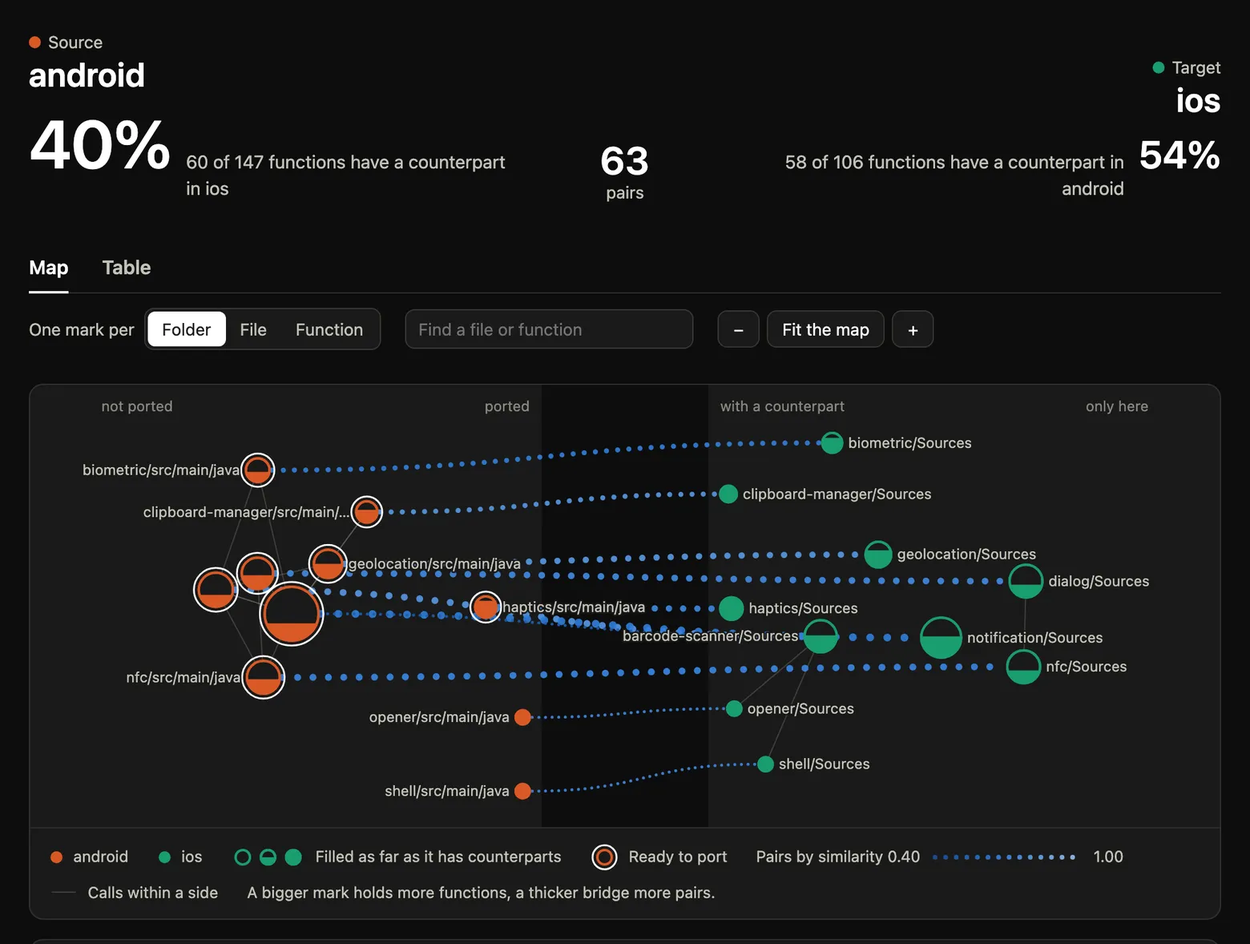
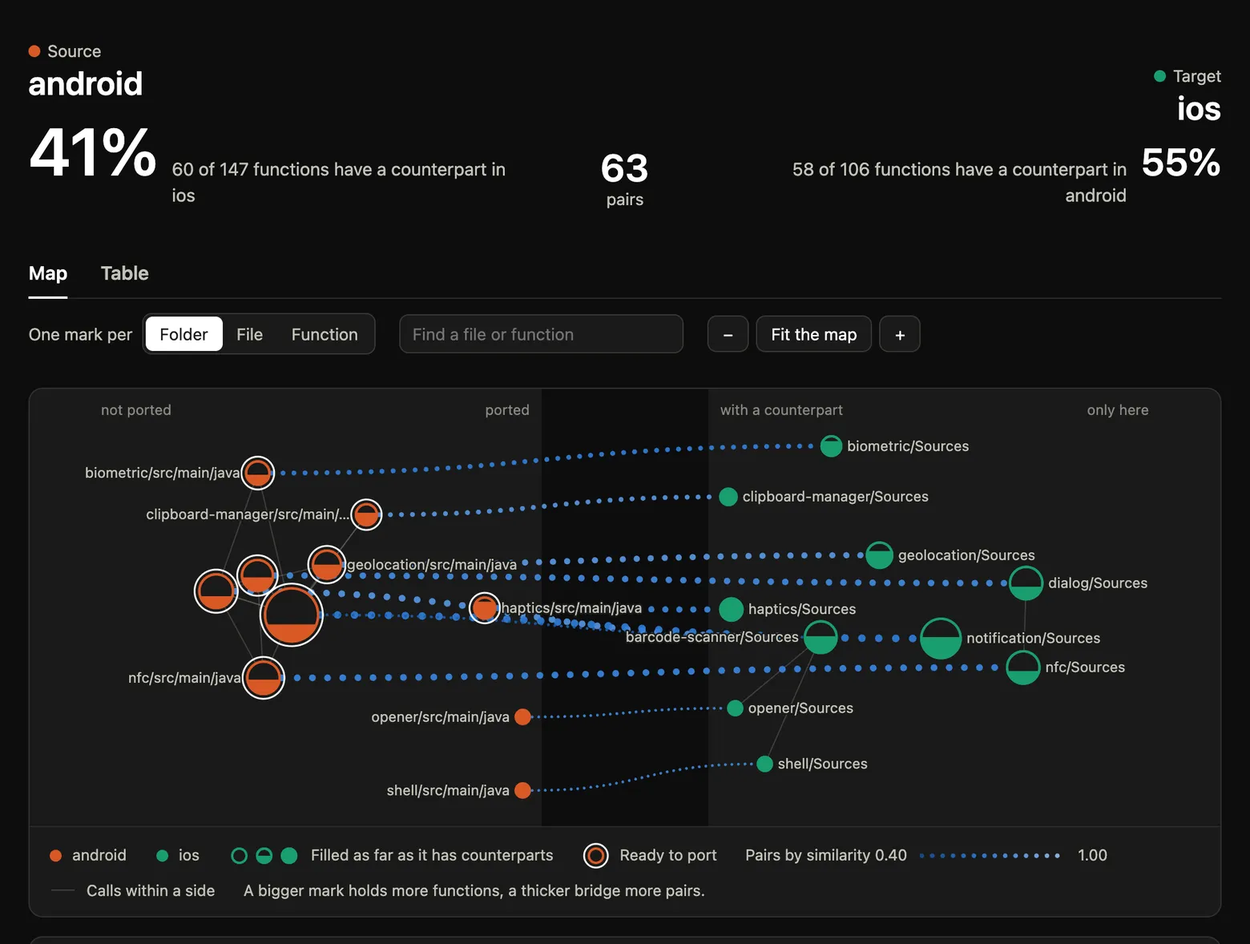
docs(compare): tests that count, declarations without a body
kucherenko/jscpd#1130 changed three things the compare guide described
the old way. A test now counts like a function, by --min-tokens and
--min-lines, so the template test of a new Android module adds no
block of zeros, and a report with only tests shows that block alone.
Declarations without a body, such as TypeScript overloads and abstract
methods, take no part in --compare and --semantic, and the semantic
guide lists them. The HTML map rounds shares like the console does.

The two hosted reports are regenerated with master. The Tauri map now
says 41% and 55%, as the console does, where the old page cut them to
40% and 54%, so both of its screenshots are taken again with the same
framing. Every other number on the page still matches a fresh run.

diff --git a/public/examples/compare-tauri.html b/public/examples/compare-tauri.html
@@ -476,7 +476,7 @@ details.table-view summary { cursor: pointer; color: var(--ink-2); font-size: 14
 </div>
 </div>
 
-<script type="application/json" id="data">{"version":"5.4.0","model":"CodeRankEmbed","sides":["android","ios"],"sideIsFile":[false,false],"files":[[0,"barcode-scanner/src/androidTest/java/ExampleInstrumentedTest.kt"],[0,"barcode-scanner/src/main/java/BarcodeScannerPlugin.kt"],[0,"barcode-scanner/src/main/java/GraphicOverlay.kt"],[0,"barcode-scanner/src/test/java/ExampleUnitTest.kt"],[0,"biometric/src/androidTest/java/ExampleInstrumentedTest.kt"],[0,"biometric/src/main/java/BiometricActivity.kt"],[0,"biometric/src/main/java/BiometricPlugin.kt"],[0,"biometric/src/test/java/ExampleUnitTest.kt"],[0,"clipboard-manager/src/androidTest/java/ExampleInstrumentedTest.kt"],[0,"clipboard-manager/src/main/java/ClipboardPlugin.kt"],[0,"clipboard-manager/src/test/java/ExampleUnitTest.kt"],[0,"dialog/src/androidTest/java/ExampleInstrumentedTest.kt"],[0,"dialog/src/main/java/DialogPlugin.kt"],[0,"dialog/src/main/java/FilePickerUtils.kt"],[0,"dialog/src/test/java/ExampleUnitTest.kt"],[0,"geolocation/src/androidTest/java/ExampleInstrumentedTest.kt"],[0,"geolocation/src/main/java/Geolocation.kt"],[0,"geolocation/src/main/java/GeolocationPlugin.kt"],[0,"geolocation/src/test/java/ExampleUnitTest.kt"],[0,"haptics/src/androidTest/java/ExampleInstrumentedTest.kt"],[0,"haptics/src/main/java/HapticsPlugin.kt"],[0,"haptics/src/test/java/ExampleUnitTest.kt"],[0,"nfc/src/androidTest/java/ExampleInstrumentedTest.kt"],[0,"nfc/src/main/java/NfcPlugin.kt"],[0,"nfc/src/test/java/ExampleUnitTest.kt"],[0,"notification/src/androidTest/java/ExampleInstrumentedTest.kt"],[0,"notification/src/main/java/AssetUtils.kt"],[0,"notification/src/main/java/ChannelManager.kt"],[0,"notification/src/main/java/Notification.kt"],[0,"notification/src/main/java/NotificationAttachment.kt"],[0,"notification/src/main/java/NotificationPlugin.kt"],[0,"notification/src/main/java/NotificationSchedule.kt"],[0,"notification/src/main/java/NotificationStorage.kt"],[0,"notification/src/main/java/TauriNotificationManager.kt"],[0,"notification/src/test/java/ExampleUnitTest.kt"],[0,"opener/src/main/java/OpenerPlugin.kt"],[0,"shell/src/main/java/ShellPlugin.kt"],[1,"barcode-scanner/Sources/BarcodeScannerPlugin.swift"],[1,"barcode-scanner/Sources/CameraView.swift"],[1,"barcode-scanner/Sources/Utils.swift"],[1,"barcode-scanner/Tests/PluginTests/PluginTests.swift"],[1,"biometric/Sources/BiometricPlugin.swift"],[1,"biometric/Tests/PluginTests/PluginTests.swift"],[1,"clipboard-manager/Sources/ClipboardPlugin.swift"],[1,"clipboard-manager/Tests/PluginTests/PluginTests.swift"],[1,"dialog/Sources/DialogPlugin.swift"],[1,"dialog/Sources/FilePickerController.swift"],[1,"dialog/Tests/PluginTests/PluginTests.swift"],[1,"geolocation/Sources/GeolocationPlugin.swift"],[1,"geolocation/Tests/PluginTests/PluginTests.swift"],[1,"haptics/Sources/HapticsPlugin.swift"],[1,"haptics/Tests/PluginTests/PluginTests.swift"],[1,"nfc/Sources/NfcPlugin.swift"],[1,"nfc/Tests/PluginTests/PluginTests.swift"],[1,"notification/Sources/Notification.swift"],[1,"notification/Sources/NotificationCategory.swift"],[1,"notification/Sources/NotificationHandler.swift"],[1,"notification/Sources/NotificationManager.swift"],[1,"notification/Sources/NotificationPlugin.swift"],[1,"notification/Tests/PluginTests/PluginTests.swift"],[1,"opener/Sources/OpenerPlugin.swift"],[1,"shell/Sources/ShellPlugin.swift"]],"functions":[[0,"useAppContext",23,27,2],[1,"load",92,95,0],[1,"supportedFormats",97,113,5],[1,"hasCamera",115,118,0],[1,"setupCamera",120,168,1],[1,"bindPreview",170,197,5],[1,"dismantleCamera",199,212,1],[1,"getFormats",214,223,1],[1,"prepare",225,228,0],[1,"destroy",230,241,1],[1,"configureCamera",244,268,1],[1,"mapFormats",270,276,5],[1,"analyze",278,318,1],[1,"vibrate",321,331,5],[1,"cancel",334,338,0],[1,"scan",341,354,1],[1,"cameraPermissionCallback",358,379,1],[1,"requestPermissions",383,401,1],[1,"openAppSettings",404,411,1],[1,"openSettingsResult",414,416,0],[2,"draw",33,33,0],[2,"drawRect",34,43,5],[2,"drawText",45,47,0],[2,"scale",50,52,0],[2,"isImageFlipped",57,59,0],[2,"translateX",61,67,1],[2,"translateY",69,71,0],[2,"getTransformationMatrix",73,75,0],[2,"postInvalidate",77,79,0],[2,"updatePaintColorByZValue",81,100,1],[2,"clear",111,114,0],[2,"add",116,118,0],[2,"remove",120,123,0],[2,"setImageSourceInfo",125,135,1],[2,"getImageWidth",137,139,0],[2,"getImageHeight",141,143,0],[2,"updateTransformationIfNeeded",145,169,5],[2,"onDraw",171,179,1],[3,"addition_isCorrect",18,20,2],[4,"useAppContext",23,27,2],[5,"onCreate",22,105,1],[5,"onAuthenticationError",84,94,1],[5,"onAuthenticationSucceeded",96,101,0],[5,"finishActivity",108,124,1],[6,"load",90,107,1],[6,"status",113,157,1],[6,"authenticate",163,190,1],[6,"authenticateResult",193,249,5],[7,"addition_isCorrect",18,20,2],[8,"useAppContext",23,27,2],[9,"serialize",50,68,5],[9,"deserialize",72,82,5],[9,"writeText",92,108,1],[9,"readText",111,129,1],[9,"clear",132,141,1],[10,"addition_isCorrect",18,20,2],[11,"useAppContext",23,27,2],[12,"showFilePicker",57,88,1],[12,"filePickerResult",91,106,1],[12,"createPickFilesResult",108,126,1],[12,"parseFiltersOption",128,142,1],[12,"showMessageDialog",145,196,1],[12,"saveFileDialog",199,220,1],[12,"saveFileDialogResult",223,245,1],[13,"getPathFromUri",29,63,1],[13,"getNameFromUri",65,80,5],[13,"getDataFromUri",82,93,1],[13,"getMimeTypeFromUri",95,97,0],[13,"getModifiedAtFromUri",99,116,1],[13,"getSizeFromUri",118,130,5],[13,"getDurationFromUri",132,146,1],[13,"getHeightAndWidthFromUri",148,178,1],[13,"isImageUri",180,183,0],[13,"isVideoUri",185,188,0],[13,"getBytesFromInputStream",191,200,5],[13,"getDataColumn",204,218,5],[13,"isExternalStorageDocument",220,222,0],[13,"isDownloadsDocument",224,226,0],[13,"isMediaDocument",228,230,0],[14,"addition_isCorrect",18,20,2],[15,"useAppContext",23,27,2],[16,"isLocationServicesEnabled",29,32,0],[16,"sendLocation",35,69,1],[16,"requestLocationUpdates",72,117,1],[16,"onLocationResult",100,107,5],[16,"clearLocationUpdates",119,124,0],[16,"getLastLocation",127,143,5],[17,"load",66,69,0],[17,"onPause",71,75,0],[17,"onResume",77,83,5],[17,"checkPermissions",86,92,1],[17,"requestPermissions",95,101,1],[17,"getCurrentPosition",104,115,1],[17,"positionPermissionCallback",118,123,1],[17,"watchPosition",126,129,0],[17,"startWatch",131,139,1],[17,"clearWatch",142,152,1],[17,"convertLocation",154,171,1],[18,"addition_isCorrect",18,20,2],[19,"useAppContext",23,27,2],[20,"into",50,56,0],[20,"into",77,85,1],[20,"vibrate",103,111,1],[20,"impactFeedback",114,118,1],[20,"notificationFeedback",121,125,1],[20,"selectionFeedback",129,132,0],[20,"vibratePattern",136,142,5],[21,"addition_isCorrect",18,20,2],[22,"useAppContext",23,27,2],[23,"className",64,97,5],[23,"addDataFilters",100,115,5],[23,"filters",132,145,1],[23,"techLists",147,166,1],[23,"deserialize",170,182,5],[23,"load",221,225,1],[23,"onNewIntent",227,267,1],[23,"onPause",269,273,0],[23,"onResume",275,281,1],[23,"isAvailable",283,298,5],[23,"isAvailable",301,305,1],[23,"scan",308,322,1],[23,"write",325,369,1],[23,"readTag",371,406,1],[23,"readTagInner",408,424,5],[23,"writeTag",426,479,1],[23,"enableNFCInForeground",482,495,5],[23,"disableNFCInForeground",497,501,0],[23,"fromU8Array",504,510,1],[23,"recordToJson",512,519,1],[24,"addition_isCorrect",18,20,2],[25,"useAppContext",23,27,2],[26,"getResourceID",15,17,0],[26,"getResourceBaseName",19,27,5],[27,"createChannel",60,68,1],[27,"createChannel",70,108,1],[27,"deleteChannel",110,118,1],[27,"listChannels",120,150,1],[28,"getSound",42,57,1],[28,"getIconColor",59,62,0],[28,"getSmallIcon",64,73,1],[28,"getLargeIcon",75,81,1],[28,"buildNotificationPendingList",84,91,1],[29,"getAttachments",18,50,1],[30,"triggerNotification",90,92,0],[30,"load",95,118,1],[30,"onNewIntent",120,123,0],[30,"onIntent",125,133,1],[30,"show",136,141,1],[30,"batch",144,151,1],[30,"cancel",154,160,1],[30,"removeActive",163,179,1],[30,"getPending",182,186,1],[30,"registerActionTypes",189,193,1],[30,"getActive",197,226,1],[30,"createChannel",229,231,0],[30,"deleteChannel",234,236,0],[30,"listChannels",239,241,0],[30,"checkPermissions",244,252,1],[30,"requestPermissions",255,263,1],[30,"permissionState",266,270,1],[30,"permissionsCallback",273,277,1],[30,"getPermissionState",279,285,0],[31,"getIntervalTime",49,62,1],[31,"isRemovable",87,92,0],[31,"allowWhileIdle",94,101,5],[31,"serialize",108,141,1],[31,"deserialize",145,160,5],[31,"buildCalendar",181,186,5],[31,"nextTrigger",194,198,1],[31,"postponeTriggerIfNeeded",203,224,5],[31,"buildNextTriggerTime",226,257,1],[31,"toString",259,276,5],[31,"equals",278,289,5],[31,"hashCode",291,300,5],[31,"toMatchString",307,324,1],[31,"fromMatchString",335,359,1],[31,"getValueFromCronElement",361,367,5],[32,"appendNotifications",19,29,1],[32,"getSavedNotificationIds",31,37,1],[32,"getSavedNotifications",39,54,1],[32,"getSavedNotification",56,69,1],[32,"deleteNotification",71,75,1],[32,"getStorage",77,79,0],[32,"writeActionGroup",81,94,1],[32,"getActionGroup",96,112,1],[33,"handleNotificationActionPerformed",53,87,1],[33,"createNotificationChannel",92,116,1],[33,"trigger",118,124,1],[33,"schedule",126,129,0],[33,"schedule",131,141,1],[33,"buildNotification",149,224,1],[33,"createActionIntents",227,288,1],[33,"buildIntent",290,306,1],[33,"triggerScheduledNotification",314,362,1],[33,"setExactIfPossible",365,384,1],[33,"cancel",386,392,1],[33,"cancelTimerForNotification",394,405,1],[33,"dismissVisibleNotification",407,412,0],[33,"areNotificationsEnabled",414,417,0],[33,"getDefaultSoundUrl",419,424,1],[33,"getDefaultSound",426,435,1],[33,"getDefaultSmallIcon",437,449,1],[33,"onReceive",453,466,1],[33,"onReceive",473,500,1],[33,"getParcelableExtraLegacy",503,505,0],[33,"rescheduleNotificationIfNeeded",508,533,1],[33,"onReceive",543,580,1],[34,"addition_isCorrect",18,20,2],[35,"open",26,43,1],[36,"open",19,29,1],[37,"load",95,98,0],[37,"loadCamera",100,105,5],[37,"metadataOutput",107,129,1],[37,"setupCamera",131,188,1],[37,"dismantleCamera",190,203,1],[37,"destroy",205,214,1],[37,"getPermissionState",216,229,1],[37,"checkPermissions",231,234,0],[37,"requestPermissions",236,245,1],[37,"openAppSettings",247,261,1],[37,"runScanner",263,294,1],[37,"scan",296,337,1],[37,"cancel",339,345,1],[37,"initPlugin",349,351,0],[38,"interfaceOrientationToVideoOrientation",11,26,5],[38,"layoutSubviews",28,42,1],[38,"addPreviewLayer",44,49,5],[38,"removePreviewLayer",51,56,0],[39,"createCaptureDeviceInput",7,33,5],[39,"discoverCaptureDevices",35,52,5],[39,"formatStringFromMetadata",54,90,5],[40,"testExample",10,12,2],[41,"init",17,22,5],[41,"load",50,82,1],[41,"status",84,98,1],[41,"authenticate",100,147,1],[41,"initPlugin",151,153,0],[42,"testExample",9,11,2],[43,"writeText",19,31,1],[43,"readText",33,40,1],[43,"clear",42,46,0],[43,"initPlugin",50,52,0],[44,"testClipboard",9,11,2],[45,"init",62,66,0],[45,"showFilePicker",68,136,1],[45,"saveFileDialog",138,176,1],[45,"presentViewController",178,180,0],[45,"parseFiltersOption",183,197,1],[45,"showFilePickerLegacy",200,240,1],[45,"parseFiltersOptionLegacy",243,258,5],[45,"onFilePickerEvent",260,262,0],[45,"showMessageDialog",264,306,1],[45,"initPlugin",311,313,0],[46,"init",14,16,0],[46,"dismissViewController",18,20,0],[46,"getModifiedAtFromUrl",22,34,1],[46,"getMimeTypeFromUrl",36,45,5],[46,"getSizeFromUrl",47,50,0],[46,"getVideoDuration",52,57,1],[46,"getImageDimensions",59,66,1],[46,"getVideoDimensions",68,74,1],[46,"getHeightAndWidthFromImageProperties",76,86,5],[46,"getFileUrlByPath",88,97,1],[46,"saveTemporaryFile",113,127,1],[46,"deleteFile",129,133,5],[46,"documentPicker",137,143,1],[46,"documentPickerWasCancelled",145,147,0],[46,"imagePickerControllerDidCancel",151,154,0],[46,"popoverPresentationControllerDidDismissPopover",156,158,0],[46,"presentationControllerDidDismiss",160,162,0],[46,"imagePickerController",164,177,1],[46,"picker",182,252,1],[47,"testExample",9,11,2],[48,"init",31,34,0],[48,"getCurrentPosition",40,59,1],[48,"watchPosition",61,83,1],[48,"clearWatch",85,96,1],[48,"checkPermissions",98,121,1],[48,"requestPermissions",123,138,1],[48,"locationManager",144,162,5],[48,"locationManager",164,197,5],[48,"locationManager",199,217,5],[48,"stopUpdating",224,227,0],[48,"convertLocation",229,244,1],[48,"initPlugin",248,250,0],[49,"testExample",9,11,2],[50,"into",19,32,1],[50,"into",42,51,1],[50,"vibrate",64,100,1],[50,"impactFeedback",102,109,1],[50,"notificationFeedback",111,118,1],[50,"selectionFeedback",121,127,1],[50,"initPlugin",131,133,0],[51,"testExample",9,11,2],[52,"init",54,68,5],[52,"init",75,78,0],[52,"load",85,105,1],[52,"tagReaderSessionDidBecomeActive",107,111,0],[52,"tagReaderSession",113,147,1],[52,"tagReaderSession",149,153,5],[52,"readerSession",155,159,5],[52,"readerSession",161,193,1],[52,"readerSession",195,206,5],[52,"tagMetadata",208,235,1],[52,"closeSession",237,240,0],[52,"closeSession",242,245,0],[52,"processTag",247,273,1],[52,"writeNDEFTag",275,308,1],[52,"readNDEFTag",310,351,1],[52,"resolveInvoke",353,365,5],[52,"ndefMessageRecords",367,380,1],[52,"byteArrayFromData",382,388,5],[52,"dataFromByteArray",390,396,1],[52,"isAvailable",398,402,0],[52,"write",404,453,1],[52,"scan",455,473,1],[52,"startScanSession",475,517,5],[52,"initPlugin",521,523,0],[53,"testExample",9,11,2],[54,"makeNotificationContent",31,74,1],[54,"scheduleToDictionary",76,96,1],[54,"scheduleIntervalToDictionary",98,124,5],[54,"makeAttachments",126,147,1],[54,"makeAttachmentUrl",149,151,0],[54,"makeAttachmentOptions",153,172,5],[54,"handleScheduledNotification",174,219,1],[54,"getDateComponents",224,251,5],[54,"getRepeatDateInterval",257,286,1],[55,"makeCategories",8,36,1],[55,"makeActions",38,66,1],[55,"makeActionOptions",68,79,5],[55,"makeCategoryOptions",81,97,5],[56,"saveNotification",14,16,0],[56,"requestPermissions",18,23,5],[56,"checkPermissions",25,30,5],[56,"willPresent",32,47,1],[56,"didReceive",49,76,1],[56,"toActiveNotification",78,88,5],[56,"toPendingNotification",90,96,5],[57,"init",16,20,0],[57,"userNotificationCenter",22,34,1],[57,"userNotificationCenter",36,46,5],[58,"showNotification",87,120,5],[58,"init",161,165,0],[58,"show",167,173,1],[58,"batch",175,186,1],[58,"requestPermissions",188,196,1],[58,"checkPermissions",198,215,1],[58,"cancel",217,228,1],[58,"getPending",230,239,1],[58,"registerActionTypes",241,245,1],[58,"removeActive",247,260,1],[58,"getActive",262,271,1],[58,"createChannel",273,275,0],[58,"deleteChannel",277,279,0],[58,"listChannels",281,283,0],[58,"initPlugin",288,290,0],[59,"testExample",9,11,2],[60,"open",18,40,1],[60,"initPlugin",44,46,0],[61,"open",14,28,1],[61,"initPlugin",32,34,0]],"pairs":[[4,213,0.815,2,0],[6,214,0.805,2,0],[9,215,0.925,2,0],[10,220,0.543,0,0],[14,222,0.855,2,1],[15,221,0.743,2,0],[17,218,0.759,2,0],[18,219,0.769,2,0],[44,233,0.653,1,0],[45,234,0.747,2,0],[46,235,0.596,1,0],[52,238,0.792,2,0],[53,239,0.86,2,0],[54,240,0.688,1,1],[57,244,0.818,2,0],[60,247,0.883,2,0],[61,251,0.809,2,0],[62,245,0.749,2,0],[68,255,0.644,1,0],[70,258,0.615,1,0],[71,260,0.54,0,0],[90,277,0.782,2,0],[91,278,0.841,2,0],[92,274,0.752,2,0],[95,275,0.615,1,0],[96,276,0.849,2,0],[97,283,0.867,2,0],[100,287,0.586,1,1],[101,286,0.59,1,0],[102,288,0.782,2,0],[103,289,0.778,2,0],[104,290,0.747,2,0],[105,291,0.77,2,1],[114,296,0.653,1,0],[119,313,0.769,2,1],[120,315,0.784,2,0],[121,314,0.847,2,0],[122,301,0.619,1,0],[124,307,0.798,2,0],[127,312,0.564,1,0],[128,310,0.547,0,0],[133,353,0.704,1,1],[135,354,0.715,2,1],[136,355,0.617,1,1],[142,322,0.579,1,0],[147,344,0.769,2,0],[148,345,0.81,2,0],[149,348,0.766,2,0],[150,351,0.762,2,0],[151,349,0.768,2,0],[152,350,0.801,2,0],[153,352,0.711,1,0],[157,347,0.605,1,1],[158,346,0.739,2,0],[159,216,0.485,0,0],[162,327,0.413,0,0],[165,320,0.463,0,0],[190,319,0.454,0,0],[191,329,0.517,0,0],[193,325,0.716,2,0],[203,336,0.508,0,0],[208,358,0.717,2,0],[209,360,0.714,2,0]],"calls":[[4,5],[7,31],[8,4],[8,6],[9,6],[10,11],[12,9],[12,171],[14,9],[15,3],[15,7],[15,8],[15,10],[15,161],[16,161],[17,161],[25,23],[26,23],[29,23],[30,28],[32,28],[33,28],[37,20],[37,36],[40,41],[40,42],[40,43],[40,46],[41,43],[42,43],[43,171],[44,31],[53,171],[57,60],[58,59],[59,31],[59,171],[60,31],[61,147],[62,60],[63,171],[64,75],[64,76],[64,77],[64,78],[64,172],[66,74],[70,73],[71,72],[71,73],[72,67],[73,67],[74,121],[82,81],[83,81],[83,84],[83,85],[88,85],[89,95],[90,81],[91,81],[92,82],[92,86],[92,97],[93,161],[94,95],[95,83],[95,97],[96,32],[96,85],[103,100],[103,101],[103,106],[104,100],[104,101],[104,106],[105,106],[106,102],[111,110],[112,31],[112,109],[115,122],[115,124],[115,126],[115,171],[116,126],[117,125],[120,111],[120,112],[120,118],[120,119],[120,125],[121,31],[121,111],[121,112],[121,118],[121,119],[121,124],[121,125],[121,126],[121,171],[122,123],[123,127],[123,128],[128,127],[134,186],[136,31],[136,171],[137,131],[137,132],[139,131],[140,131],[141,31],[142,31],[144,146],[144,186],[145,146],[146,185],[146,187],[147,188],[147,189],[148,177],[148,188],[148,189],[149,178],[150,149],[151,141],[151,179],[152,183],[153,31],[153,171],[157,161],[158,159],[158,161],[159,161],[160,161],[161,198],[168,167],[168,169],[168,170],[170,167],[174,171],[175,176],[177,171],[177,182],[178,182],[179,31],[179,182],[180,182],[181,32],[181,182],[183,30],[183,54],[183,182],[184,182],[185,171],[185,181],[185,197],[186,199],[187,190],[187,196],[187,197],[188,187],[189,31],[189,187],[190,137],[190,138],[190,139],[190,140],[190,143],[190,191],[190,193],[190,200],[190,201],[191,163],[191,173],[191,184],[191,192],[192,163],[193,162],[193,168],[193,174],[193,194],[194,164],[195,171],[195,181],[195,196],[195,197],[196,195],[197,195],[199,200],[200,131],[200,132],[201,131],[201,132],[202,171],[202,181],[203,143],[203,171],[203,180],[203,181],[203,204],[203,205],[205,168],[205,175],[206,31],[206,177],[206,178],[206,180],[206,188],[206,189],[210,211],[212,215],[212,230],[213,226],[213,228],[213,229],[214,227],[215,214],[217,216],[218,216],[219,358],[219,360],[220,216],[221,211],[221,213],[221,214],[221,216],[221,220],[221,229],[222,215],[225,224],[244,246],[244,247],[244,248],[245,246],[245,314],[248,246],[248,249],[259,261],[262,253],[263,264],[265,250],[266,250],[267,250],[267,254],[268,250],[269,250],[270,250],[270,254],[270,263],[271,250],[271,254],[271,263],[276,282],[278,277],[280,283],[281,277],[289,286],[289,287],[290,286],[290,287],[298,303],[298,304],[298,305],[298,306],[300,310],[301,304],[301,305],[301,306],[301,311],[303,311],[306,304],[306,305],[306,307],[306,308],[306,314],[307,304],[307,305],[308,304],[308,305],[308,309],[309,310],[310,311],[314,307],[314,312],[314,316],[315,316],[319,320],[319,322],[320,321],[322,323],[322,324],[325,326],[325,327],[328,329],[328,331],[329,330],[335,337],[336,337],[340,335],[341,336],[342,319],[342,325],[344,332],[344,342],[345,332],[345,342],[349,338],[350,328],[352,337]]}</script>
+<script type="application/json" id="data">{"version":"5.4.0","model":"CodeRankEmbed","sides":["android","ios"],"sideIsFile":[false,false],"files":[[0,"barcode-scanner/src/androidTest/java/ExampleInstrumentedTest.kt"],[0,"barcode-scanner/src/main/java/BarcodeScannerPlugin.kt"],[0,"barcode-scanner/src/main/java/GraphicOverlay.kt"],[0,"barcode-scanner/src/test/java/ExampleUnitTest.kt"],[0,"biometric/src/androidTest/java/ExampleInstrumentedTest.kt"],[0,"biometric/src/main/java/BiometricActivity.kt"],[0,"biometric/src/main/java/BiometricPlugin.kt"],[0,"biometric/src/test/java/ExampleUnitTest.kt"],[0,"clipboard-manager/src/androidTest/java/ExampleInstrumentedTest.kt"],[0,"clipboard-manager/src/main/java/ClipboardPlugin.kt"],[0,"clipboard-manager/src/test/java/ExampleUnitTest.kt"],[0,"dialog/src/androidTest/java/ExampleInstrumentedTest.kt"],[0,"dialog/src/main/java/DialogPlugin.kt"],[0,"dialog/src/main/java/FilePickerUtils.kt"],[0,"dialog/src/test/java/ExampleUnitTest.kt"],[0,"geolocation/src/androidTest/java/ExampleInstrumentedTest.kt"],[0,"geolocation/src/main/java/Geolocation.kt"],[0,"geolocation/src/main/java/GeolocationPlugin.kt"],[0,"geolocation/src/test/java/ExampleUnitTest.kt"],[0,"haptics/src/androidTest/java/ExampleInstrumentedTest.kt"],[0,"haptics/src/main/java/HapticsPlugin.kt"],[0,"haptics/src/test/java/ExampleUnitTest.kt"],[0,"nfc/src/androidTest/java/ExampleInstrumentedTest.kt"],[0,"nfc/src/main/java/NfcPlugin.kt"],[0,"nfc/src/test/java/ExampleUnitTest.kt"],[0,"notification/src/androidTest/java/ExampleInstrumentedTest.kt"],[0,"notification/src/main/java/AssetUtils.kt"],[0,"notification/src/main/java/ChannelManager.kt"],[0,"notification/src/main/java/Notification.kt"],[0,"notification/src/main/java/NotificationAttachment.kt"],[0,"notification/src/main/java/NotificationPlugin.kt"],[0,"notification/src/main/java/NotificationSchedule.kt"],[0,"notification/src/main/java/NotificationStorage.kt"],[0,"notification/src/main/java/TauriNotificationManager.kt"],[0,"notification/src/test/java/ExampleUnitTest.kt"],[0,"opener/src/main/java/OpenerPlugin.kt"],[0,"shell/src/main/java/ShellPlugin.kt"],[1,"barcode-scanner/Sources/BarcodeScannerPlugin.swift"],[1,"barcode-scanner/Sources/CameraView.swift"],[1,"barcode-scanner/Sources/Utils.swift"],[1,"barcode-scanner/Tests/PluginTests/PluginTests.swift"],[1,"biometric/Sources/BiometricPlugin.swift"],[1,"biometric/Tests/PluginTests/PluginTests.swift"],[1,"clipboard-manager/Sources/ClipboardPlugin.swift"],[1,"clipboard-manager/Tests/PluginTests/PluginTests.swift"],[1,"dialog/Sources/DialogPlugin.swift"],[1,"dialog/Sources/FilePickerController.swift"],[1,"dialog/Tests/PluginTests/PluginTests.swift"],[1,"geolocation/Sources/GeolocationPlugin.swift"],[1,"geolocation/Tests/PluginTests/PluginTests.swift"],[1,"haptics/Sources/HapticsPlugin.swift"],[1,"haptics/Tests/PluginTests/PluginTests.swift"],[1,"nfc/Sources/NfcPlugin.swift"],[1,"nfc/Tests/PluginTests/PluginTests.swift"],[1,"notification/Sources/Notification.swift"],[1,"notification/Sources/NotificationCategory.swift"],[1,"notification/Sources/NotificationHandler.swift"],[1,"notification/Sources/NotificationManager.swift"],[1,"notification/Sources/NotificationPlugin.swift"],[1,"notification/Tests/PluginTests/PluginTests.swift"],[1,"opener/Sources/OpenerPlugin.swift"],[1,"shell/Sources/ShellPlugin.swift"]],"functions":[[0,"useAppContext",23,27,2],[1,"load",92,95,0],[1,"supportedFormats",97,113,5],[1,"hasCamera",115,118,0],[1,"setupCamera",120,168,1],[1,"bindPreview",170,197,5],[1,"dismantleCamera",199,212,1],[1,"getFormats",214,223,1],[1,"prepare",225,228,0],[1,"destroy",230,241,1],[1,"configureCamera",244,268,1],[1,"mapFormats",270,276,5],[1,"analyze",278,318,1],[1,"vibrate",321,331,5],[1,"cancel",334,338,0],[1,"scan",341,354,1],[1,"cameraPermissionCallback",358,379,1],[1,"requestPermissions",383,401,1],[1,"openAppSettings",404,411,1],[1,"openSettingsResult",414,416,0],[2,"drawRect",34,43,5],[2,"drawText",45,47,0],[2,"scale",50,52,0],[2,"isImageFlipped",57,59,0],[2,"translateX",61,67,1],[2,"translateY",69,71,0],[2,"getTransformationMatrix",73,75,0],[2,"postInvalidate",77,79,0],[2,"updatePaintColorByZValue",81,100,1],[2,"clear",111,114,0],[2,"add",116,118,0],[2,"remove",120,123,0],[2,"setImageSourceInfo",125,135,1],[2,"getImageWidth",137,139,0],[2,"getImageHeight",141,143,0],[2,"updateTransformationIfNeeded",145,169,5],[2,"onDraw",171,179,1],[3,"addition_isCorrect",18,20,2],[4,"useAppContext",23,27,2],[5,"onCreate",22,105,1],[5,"onAuthenticationError",84,94,1],[5,"onAuthenticationSucceeded",96,101,0],[5,"finishActivity",108,124,1],[6,"load",90,107,1],[6,"status",113,157,1],[6,"authenticate",163,190,1],[6,"authenticateResult",193,249,5],[7,"addition_isCorrect",18,20,2],[8,"useAppContext",23,27,2],[9,"serialize",50,68,5],[9,"deserialize",72,82,5],[9,"writeText",92,108,1],[9,"readText",111,129,1],[9,"clear",132,141,1],[10,"addition_isCorrect",18,20,2],[11,"useAppContext",23,27,2],[12,"showFilePicker",57,88,1],[12,"filePickerResult",91,106,1],[12,"createPickFilesResult",108,126,1],[12,"parseFiltersOption",128,142,1],[12,"showMessageDialog",145,196,1],[12,"saveFileDialog",199,220,1],[12,"saveFileDialogResult",223,245,1],[13,"getPathFromUri",29,63,1],[13,"getNameFromUri",65,80,5],[13,"getDataFromUri",82,93,1],[13,"getMimeTypeFromUri",95,97,0],[13,"getModifiedAtFromUri",99,116,1],[13,"getSizeFromUri",118,130,5],[13,"getDurationFromUri",132,146,1],[13,"getHeightAndWidthFromUri",148,178,1],[13,"isImageUri",180,183,0],[13,"isVideoUri",185,188,0],[13,"getBytesFromInputStream",191,200,5],[13,"getDataColumn",204,218,5],[13,"isExternalStorageDocument",220,222,0],[13,"isDownloadsDocument",224,226,0],[13,"isMediaDocument",228,230,0],[14,"addition_isCorrect",18,20,2],[15,"useAppContext",23,27,2],[16,"isLocationServicesEnabled",29,32,0],[16,"sendLocation",35,69,1],[16,"requestLocationUpdates",72,117,1],[16,"onLocationResult",100,107,5],[16,"clearLocationUpdates",119,124,0],[16,"getLastLocation",127,143,5],[17,"load",66,69,0],[17,"onPause",71,75,0],[17,"onResume",77,83,5],[17,"checkPermissions",86,92,1],[17,"requestPermissions",95,101,1],[17,"getCurrentPosition",104,115,1],[17,"positionPermissionCallback",118,123,1],[17,"watchPosition",126,129,0],[17,"startWatch",131,139,1],[17,"clearWatch",142,152,1],[17,"convertLocation",154,171,1],[18,"addition_isCorrect",18,20,2],[19,"useAppContext",23,27,2],[20,"into",50,56,0],[20,"into",77,85,1],[20,"vibrate",103,111,1],[20,"impactFeedback",114,118,1],[20,"notificationFeedback",121,125,1],[20,"selectionFeedback",129,132,0],[20,"vibratePattern",136,142,5],[21,"addition_isCorrect",18,20,2],[22,"useAppContext",23,27,2],[23,"className",64,97,5],[23,"addDataFilters",100,115,5],[23,"filters",132,145,1],[23,"techLists",147,166,1],[23,"deserialize",170,182,5],[23,"load",221,225,1],[23,"onNewIntent",227,267,1],[23,"onPause",269,273,0],[23,"onResume",275,281,1],[23,"isAvailable",283,298,5],[23,"isAvailable",301,305,1],[23,"scan",308,322,1],[23,"write",325,369,1],[23,"readTag",371,406,1],[23,"readTagInner",408,424,5],[23,"writeTag",426,479,1],[23,"enableNFCInForeground",482,495,5],[23,"disableNFCInForeground",497,501,0],[23,"fromU8Array",504,510,1],[23,"recordToJson",512,519,1],[24,"addition_isCorrect",18,20,2],[25,"useAppContext",23,27,2],[26,"getResourceID",15,17,0],[26,"getResourceBaseName",19,27,5],[27,"createChannel",60,68,1],[27,"createChannel",70,108,1],[27,"deleteChannel",110,118,1],[27,"listChannels",120,150,1],[28,"getSound",42,57,1],[28,"getIconColor",59,62,0],[28,"getSmallIcon",64,73,1],[28,"getLargeIcon",75,81,1],[28,"buildNotificationPendingList",84,91,1],[29,"getAttachments",18,50,1],[30,"triggerNotification",90,92,0],[30,"load",95,118,1],[30,"onNewIntent",120,123,0],[30,"onIntent",125,133,1],[30,"show",136,141,1],[30,"batch",144,151,1],[30,"cancel",154,160,1],[30,"removeActive",163,179,1],[30,"getPending",182,186,1],[30,"registerActionTypes",189,193,1],[30,"getActive",197,226,1],[30,"createChannel",229,231,0],[30,"deleteChannel",234,236,0],[30,"listChannels",239,241,0],[30,"checkPermissions",244,252,1],[30,"requestPermissions",255,263,1],[30,"permissionState",266,270,1],[30,"permissionsCallback",273,277,1],[30,"getPermissionState",279,285,0],[31,"getIntervalTime",49,62,1],[31,"isRemovable",87,92,0],[31,"allowWhileIdle",94,101,5],[31,"serialize",108,141,1],[31,"deserialize",145,160,5],[31,"buildCalendar",181,186,5],[31,"nextTrigger",194,198,1],[31,"postponeTriggerIfNeeded",203,224,5],[31,"buildNextTriggerTime",226,257,1],[31,"toString",259,276,5],[31,"equals",278,289,5],[31,"hashCode",291,300,5],[31,"toMatchString",307,324,1],[31,"fromMatchString",335,359,1],[31,"getValueFromCronElement",361,367,5],[32,"appendNotifications",19,29,1],[32,"getSavedNotificationIds",31,37,1],[32,"getSavedNotifications",39,54,1],[32,"getSavedNotification",56,69,1],[32,"deleteNotification",71,75,1],[32,"getStorage",77,79,0],[32,"writeActionGroup",81,94,1],[32,"getActionGroup",96,112,1],[33,"handleNotificationActionPerformed",53,87,1],[33,"createNotificationChannel",92,116,1],[33,"trigger",118,124,1],[33,"schedule",126,129,0],[33,"schedule",131,141,1],[33,"buildNotification",149,224,1],[33,"createActionIntents",227,288,1],[33,"buildIntent",290,306,1],[33,"triggerScheduledNotification",314,362,1],[33,"setExactIfPossible",365,384,1],[33,"cancel",386,392,1],[33,"cancelTimerForNotification",394,405,1],[33,"dismissVisibleNotification",407,412,0],[33,"areNotificationsEnabled",414,417,0],[33,"getDefaultSoundUrl",419,424,1],[33,"getDefaultSound",426,435,1],[33,"getDefaultSmallIcon",437,449,1],[33,"onReceive",453,466,1],[33,"onReceive",473,500,1],[33,"getParcelableExtraLegacy",503,505,0],[33,"rescheduleNotificationIfNeeded",508,533,1],[33,"onReceive",543,580,1],[34,"addition_isCorrect",18,20,2],[35,"open",26,43,1],[36,"open",19,29,1],[37,"load",95,98,0],[37,"loadCamera",100,105,5],[37,"metadataOutput",107,129,1],[37,"setupCamera",131,188,1],[37,"dismantleCamera",190,203,1],[37,"destroy",205,214,1],[37,"getPermissionState",216,229,1],[37,"checkPermissions",231,234,0],[37,"requestPermissions",236,245,1],[37,"openAppSettings",247,261,1],[37,"runScanner",263,294,1],[37,"scan",296,337,1],[37,"cancel",339,345,1],[37,"initPlugin",349,351,0],[38,"interfaceOrientationToVideoOrientation",11,26,5],[38,"layoutSubviews",28,42,1],[38,"addPreviewLayer",44,49,5],[38,"removePreviewLayer",51,56,0],[39,"createCaptureDeviceInput",7,33,5],[39,"discoverCaptureDevices",35,52,5],[39,"formatStringFromMetadata",54,90,5],[40,"testExample",10,12,2],[41,"init",17,22,5],[41,"load",50,82,1],[41,"status",84,98,1],[41,"authenticate",100,147,1],[41,"initPlugin",151,153,0],[42,"testExample",9,11,2],[43,"writeText",19,31,1],[43,"readText",33,40,1],[43,"clear",42,46,0],[43,"initPlugin",50,52,0],[44,"testClipboard",9,11,2],[45,"init",62,66,0],[45,"showFilePicker",68,136,1],[45,"saveFileDialog",138,176,1],[45,"presentViewController",178,180,0],[45,"parseFiltersOption",183,197,1],[45,"showFilePickerLegacy",200,240,1],[45,"parseFiltersOptionLegacy",243,258,5],[45,"onFilePickerEvent",260,262,0],[45,"showMessageDialog",264,306,1],[45,"initPlugin",311,313,0],[46,"init",14,16,0],[46,"dismissViewController",18,20,0],[46,"getModifiedAtFromUrl",22,34,1],[46,"getMimeTypeFromUrl",36,45,5],[46,"getSizeFromUrl",47,50,0],[46,"getVideoDuration",52,57,1],[46,"getImageDimensions",59,66,1],[46,"getVideoDimensions",68,74,1],[46,"getHeightAndWidthFromImageProperties",76,86,5],[46,"getFileUrlByPath",88,97,1],[46,"saveTemporaryFile",113,127,1],[46,"deleteFile",129,133,5],[46,"documentPicker",137,143,1],[46,"documentPickerWasCancelled",145,147,0],[46,"imagePickerControllerDidCancel",151,154,0],[46,"popoverPresentationControllerDidDismissPopover",156,158,0],[46,"presentationControllerDidDismiss",160,162,0],[46,"imagePickerController",164,177,1],[46,"picker",182,252,1],[47,"testExample",9,11,2],[48,"init",31,34,0],[48,"getCurrentPosition",40,59,1],[48,"watchPosition",61,83,1],[48,"clearWatch",85,96,1],[48,"checkPermissions",98,121,1],[48,"requestPermissions",123,138,1],[48,"locationManager",144,162,5],[48,"locationManager",164,197,5],[48,"locationManager",199,217,5],[48,"stopUpdating",224,227,0],[48,"convertLocation",229,244,1],[48,"initPlugin",248,250,0],[49,"testExample",9,11,2],[50,"into",19,32,1],[50,"into",42,51,1],[50,"vibrate",64,100,1],[50,"impactFeedback",102,109,1],[50,"notificationFeedback",111,118,1],[50,"selectionFeedback",121,127,1],[50,"initPlugin",131,133,0],[51,"testExample",9,11,2],[52,"init",54,68,5],[52,"init",75,78,0],[52,"load",85,105,1],[52,"tagReaderSessionDidBecomeActive",107,111,0],[52,"tagReaderSession",113,147,1],[52,"tagReaderSession",149,153,5],[52,"readerSession",155,159,5],[52,"readerSession",161,193,1],[52,"readerSession",195,206,5],[52,"tagMetadata",208,235,1],[52,"closeSession",237,240,0],[52,"closeSession",242,245,0],[52,"processTag",247,273,1],[52,"writeNDEFTag",275,308,1],[52,"readNDEFTag",310,351,1],[52,"resolveInvoke",353,365,5],[52,"ndefMessageRecords",367,380,1],[52,"byteArrayFromData",382,388,5],[52,"dataFromByteArray",390,396,1],[52,"isAvailable",398,402,0],[52,"write",404,453,1],[52,"scan",455,473,1],[52,"startScanSession",475,517,5],[52,"initPlugin",521,523,0],[53,"testExample",9,11,2],[54,"makeNotificationContent",31,74,1],[54,"scheduleToDictionary",76,96,1],[54,"scheduleIntervalToDictionary",98,124,5],[54,"makeAttachments",126,147,1],[54,"makeAttachmentUrl",149,151,0],[54,"makeAttachmentOptions",153,172,5],[54,"handleScheduledNotification",174,219,1],[54,"getDateComponents",224,251,5],[54,"getRepeatDateInterval",257,286,1],[55,"makeCategories",8,36,1],[55,"makeActions",38,66,1],[55,"makeActionOptions",68,79,5],[55,"makeCategoryOptions",81,97,5],[56,"saveNotification",14,16,0],[56,"requestPermissions",18,23,5],[56,"checkPermissions",25,30,5],[56,"willPresent",32,47,1],[56,"didReceive",49,76,1],[56,"toActiveNotification",78,88,5],[56,"toPendingNotification",90,96,5],[57,"init",16,20,0],[57,"userNotificationCenter",22,34,1],[57,"userNotificationCenter",36,46,5],[58,"showNotification",87,120,5],[58,"init",161,165,0],[58,"show",167,173,1],[58,"batch",175,186,1],[58,"requestPermissions",188,196,1],[58,"checkPermissions",198,215,1],[58,"cancel",217,228,1],[58,"getPending",230,239,1],[58,"registerActionTypes",241,245,1],[58,"removeActive",247,260,1],[58,"getActive",262,271,1],[58,"createChannel",273,275,0],[58,"deleteChannel",277,279,0],[58,"listChannels",281,283,0],[58,"initPlugin",288,290,0],[59,"testExample",9,11,2],[60,"open",18,40,1],[60,"initPlugin",44,46,0],[61,"open",14,28,1],[61,"initPlugin",32,34,0]],"pairs":[[4,212,0.815,2,0],[6,213,0.805,2,0],[9,214,0.925,2,0],[10,219,0.543,0,0],[14,221,0.855,2,1],[15,220,0.743,2,0],[17,217,0.759,2,0],[18,218,0.769,2,0],[43,232,0.653,1,0],[44,233,0.747,2,0],[45,234,0.596,1,0],[51,237,0.792,2,0],[52,238,0.86,2,0],[53,239,0.688,1,1],[56,243,0.818,2,0],[59,246,0.883,2,0],[60,250,0.809,2,0],[61,244,0.749,2,0],[67,254,0.644,1,0],[69,257,0.615,1,0],[70,259,0.54,0,0],[89,276,0.782,2,0],[90,277,0.841,2,0],[91,273,0.752,2,0],[94,274,0.615,1,0],[95,275,0.849,2,0],[96,282,0.867,2,0],[99,286,0.586,1,1],[100,285,0.59,1,0],[101,287,0.782,2,0],[102,288,0.778,2,0],[103,289,0.747,2,0],[104,290,0.77,2,1],[113,295,0.653,1,0],[118,312,0.769,2,1],[119,314,0.784,2,0],[120,313,0.847,2,0],[121,300,0.619,1,0],[123,306,0.798,2,0],[126,311,0.564,1,0],[127,309,0.547,0,0],[132,352,0.704,1,1],[134,353,0.715,2,1],[135,354,0.617,1,1],[141,321,0.579,1,0],[146,343,0.769,2,0],[147,344,0.81,2,0],[148,347,0.766,2,0],[149,350,0.762,2,0],[150,348,0.768,2,0],[151,349,0.801,2,0],[152,351,0.711,1,0],[156,346,0.605,1,1],[157,345,0.739,2,0],[158,215,0.485,0,0],[161,326,0.413,0,0],[164,319,0.463,0,0],[189,318,0.454,0,0],[190,328,0.517,0,0],[192,324,0.716,2,0],[202,335,0.508,0,0],[207,357,0.717,2,0],[208,359,0.714,2,0]],"calls":[[4,5],[7,30],[8,4],[8,6],[9,6],[10,11],[12,9],[12,170],[14,9],[15,3],[15,7],[15,8],[15,10],[15,160],[16,160],[17,160],[24,22],[25,22],[28,22],[29,27],[31,27],[32,27],[36,35],[39,40],[39,41],[39,42],[39,45],[40,42],[41,42],[42,170],[43,30],[52,170],[56,59],[57,58],[58,30],[58,170],[59,30],[60,146],[61,59],[62,170],[63,74],[63,75],[63,76],[63,77],[63,171],[65,73],[69,72],[70,71],[70,72],[71,66],[72,66],[73,120],[81,80],[82,80],[82,83],[82,84],[87,84],[88,94],[89,80],[90,80],[91,81],[91,85],[91,96],[92,160],[93,94],[94,82],[94,96],[95,31],[95,84],[102,99],[102,100],[102,105],[103,99],[103,100],[103,105],[104,105],[105,101],[110,109],[111,30],[111,108],[114,121],[114,123],[114,125],[114,170],[115,125],[116,124],[119,110],[119,111],[119,117],[119,118],[119,124],[120,30],[120,110],[120,111],[120,117],[120,118],[120,123],[120,124],[120,125],[120,170],[121,122],[122,126],[122,127],[127,126],[133,185],[135,30],[135,170],[136,130],[136,131],[138,130],[139,130],[140,30],[141,30],[143,145],[143,185],[144,145],[145,184],[145,186],[146,187],[146,188],[147,176],[147,187],[147,188],[148,177],[149,148],[150,140],[150,178],[151,182],[152,30],[152,170],[156,160],[157,158],[157,160],[158,160],[159,160],[160,197],[167,166],[167,168],[167,169],[169,166],[173,170],[174,175],[176,170],[176,181],[177,181],[178,30],[178,181],[179,181],[180,31],[180,181],[182,29],[182,53],[182,181],[183,181],[184,170],[184,180],[184,196],[185,198],[186,189],[186,195],[186,196],[187,186],[188,30],[188,186],[189,136],[189,137],[189,138],[189,139],[189,142],[189,190],[189,192],[189,199],[189,200],[190,162],[190,172],[190,183],[190,191],[191,162],[192,161],[192,167],[192,173],[192,193],[193,163],[194,170],[194,180],[194,195],[194,196],[195,194],[196,194],[198,199],[199,130],[199,131],[200,130],[200,131],[201,170],[201,180],[202,142],[202,170],[202,179],[202,180],[202,203],[202,204],[204,167],[204,174],[205,30],[205,176],[205,177],[205,179],[205,187],[205,188],[209,210],[211,214],[211,229],[212,225],[212,227],[212,228],[213,226],[214,213],[216,215],[217,215],[218,357],[218,359],[219,215],[220,210],[220,212],[220,213],[220,215],[220,219],[220,228],[221,214],[224,223],[243,245],[243,246],[243,247],[244,245],[244,313],[247,245],[247,248],[258,260],[261,252],[262,263],[264,249],[265,249],[266,249],[266,253],[267,249],[268,249],[269,249],[269,253],[269,262],[270,249],[270,253],[270,262],[275,281],[277,276],[279,282],[280,276],[288,285],[288,286],[289,285],[289,286],[297,302],[297,303],[297,304],[297,305],[299,309],[300,303],[300,304],[300,305],[300,310],[302,310],[305,303],[305,304],[305,306],[305,307],[305,313],[306,303],[306,304],[307,303],[307,304],[307,308],[308,309],[309,310],[313,306],[313,311],[313,315],[314,315],[318,319],[318,321],[319,320],[321,322],[321,323],[324,325],[324,326],[327,328],[327,330],[328,329],[334,336],[335,336],[339,334],[340,335],[341,318],[341,324],[343,331],[343,341],[344,331],[344,341],[348,337],[349,327],[351,336]]}</script>
 <script>
 (function () {
   "use strict";
@@ -518,7 +518,9 @@ details.table-view summary { cursor: pointer; color: var(--ink-2); font-size: 14
   const partner = (f, p) => fns[p.a === f.i ? p.b : p.a];
   const place = (f) => files[f.file].path + ":" + f.start;
   const fmt = (n) => n.toLocaleString("en-US");
-  const pct = (part, whole) => (whole === 0 ? 0 : Math.floor((part / whole) * 100));
+  // Rounded from the counts like the console report (share_percent in
+  // compare/mod.rs), so both print the same share.
+  const pct = (part, whole) => (whole === 0 ? 0 : Math.round((part * 100) / whole));
 
   const hasTests = fns.some((f) => f.test && f.counted);
   const sideIsFile = DATA.sideIsFile || [false, false];

diff --git a/public/examples/compare-demo.html b/public/examples/compare-demo.html
@@ -518,7 +518,9 @@ details.table-view summary { cursor: pointer; color: var(--ink-2); font-size: 14
   const partner = (f, p) => fns[p.a === f.i ? p.b : p.a];
   const place = (f) => files[f.file].path + ":" + f.start;
   const fmt = (n) => n.toLocaleString("en-US");
-  const pct = (part, whole) => (whole === 0 ? 0 : Math.floor((part / whole) * 100));
+  // Rounded from the counts like the console report (share_percent in
+  // compare/mod.rs), so both print the same share.
+  const pct = (part, whole) => (whole === 0 ? 0 : Math.round((part * 100) / whole));
 
   const hasTests = fns.some((f) => f.test && f.counted);
   const sideIsFile = DATA.sideIsFile || [false, false];

diff --git a/content/2.guides/8.compare.md b/content/2.guides/8.compare.md
@@ -136,7 +136,7 @@ These lists hold the functions without a counterpart, grouped by file, each with
 
 ### The tests block
 
-jscpd measures tests apart from code and pairs a test only with a test, so the tests of `line_total` never count as `line_total` itself. It tells a test by the conventions of its language: `test_billing.py` is a pytest file and `billing.test.ts` a Vitest one. It also knows names such as `*_test.go`, `*.spec.js` and `*Tests.swift`, folders such as `tests/`, `__tests__/` and `src/test/`, and Rust's `#[test]` functions and `#[cfg(test)]` modules. The [full list](https://github.com/kucherenko/jscpd/blob/master/docs/rust.md#comparing-two-codebases-with---compare-experimental) is in the reference. When neither side has tests, the report shows the code alone, without the two headings.
+jscpd measures tests apart from code and pairs a test only with a test, so the tests of `line_total` never count as `line_total` itself. It tells a test by the conventions of its language: `test_billing.py` is a pytest file and `billing.test.ts` a Vitest one. It also knows names such as `*_test.go`, `*.spec.js` and `*Tests.swift`, folders such as `tests/`, `__tests__/` and `src/test/`, and Rust's `#[test]` functions and `#[cfg(test)]` modules. The [full list](https://github.com/kucherenko/jscpd/blob/master/docs/rust.md#comparing-two-codebases-with---compare-experimental) is in the reference. A test counts the way a function does, by [`--min-tokens` and `--min-lines`](#what-counts-as-a-function), so the template test of a new Android module adds no block of zeros. When neither side has a test that counts, the report shows the code alone, without the two headings. When only the tests count, it shows the tests block alone.
 
 The TypeScript tests are `it('line total sums quantity times price', () => …)` callbacks. jscpd names such a test case after its title and compares test names without case, underscores, spaces, punctuation and a leading `test_`. The title meets the pytest function `test_line_total_sums_quantity_times_price`, and the report does not list the pair as renamed.
 
@@ -144,7 +144,7 @@ The TypeScript tests are `it('line total sums quantity times price', () => …)`
 
 The `billing.ts` row says `3 / 4`, though the file holds five functions. The fifth, `formatInvoiceNumber`, is a one-line arrow function, shorter than the bar for counting. A side's totals count the functions of at least `--min-tokens` tokens and `--min-lines` lines, the first and the last line included. With `--compare`, `--min-tokens` defaults to 30 instead of 50, because a function worth porting is often shorter than a clone worth reporting, and `--min-lines` stays at 5. A shorter function still shows up as the partner of one that counts, as `formatInvoiceNumber` does in the next section.
 
-Anonymous functions, such as callbacks and closures, take no part. JavaScript and TypeScript test cases are the exception, since they go by their titles.
+Declarations without a body take no part, since they have no code to compare: TypeScript overload signatures, the functions of a `.d.ts` file, and interface and abstract methods. Anonymous functions, such as callbacks and closures, take no part either. JavaScript and TypeScript test cases are the exception, since they go by their titles.
 
 ## Every pair: console-full
 

diff --git a/content/2.guides/7.semantic-clones.md b/content/2.guides/7.semantic-clones.md
@@ -21,7 +21,7 @@ jscpd --semantic-download     # once: fetches the model, 548 MB, into the jscpd 
 jscpd --semantic src/         # pairs within one language and across languages
 ```
 
-The model runs inside jscpd on the CPU, so a scan makes no network call. The first scan embeds every function; later scans take the vectors of unchanged functions from the cache. jscpd reads the functions of JavaScript, TypeScript, JSX, TSX, Vue, Svelte, Astro, Python, Rust, Go, Java, Kotlin, C#, C, C++, PHP, Ruby, Scala and Swift files that clear `--min-tokens` and `--min-lines`.
+The model runs inside jscpd on the CPU, so a scan makes no network call. The first scan embeds every function; later scans take the vectors of unchanged functions from the cache. jscpd reads the functions of JavaScript, TypeScript, JSX, TSX, Vue, Svelte, Astro, Python, Rust, Go, Java, Kotlin, C#, C, C++, PHP, Ruby, Scala and Swift files that clear `--min-tokens` and `--min-lines`. It skips declarations without a body, which have no code to compare: TypeScript overload signatures and `declare function`, the functions of a `.d.ts` file, interface and abstract methods, a Swift protocol's `init`, a Go function written in assembly and a C++ `= default`.
 
 A pair appears in the same report as the token clones:
 
